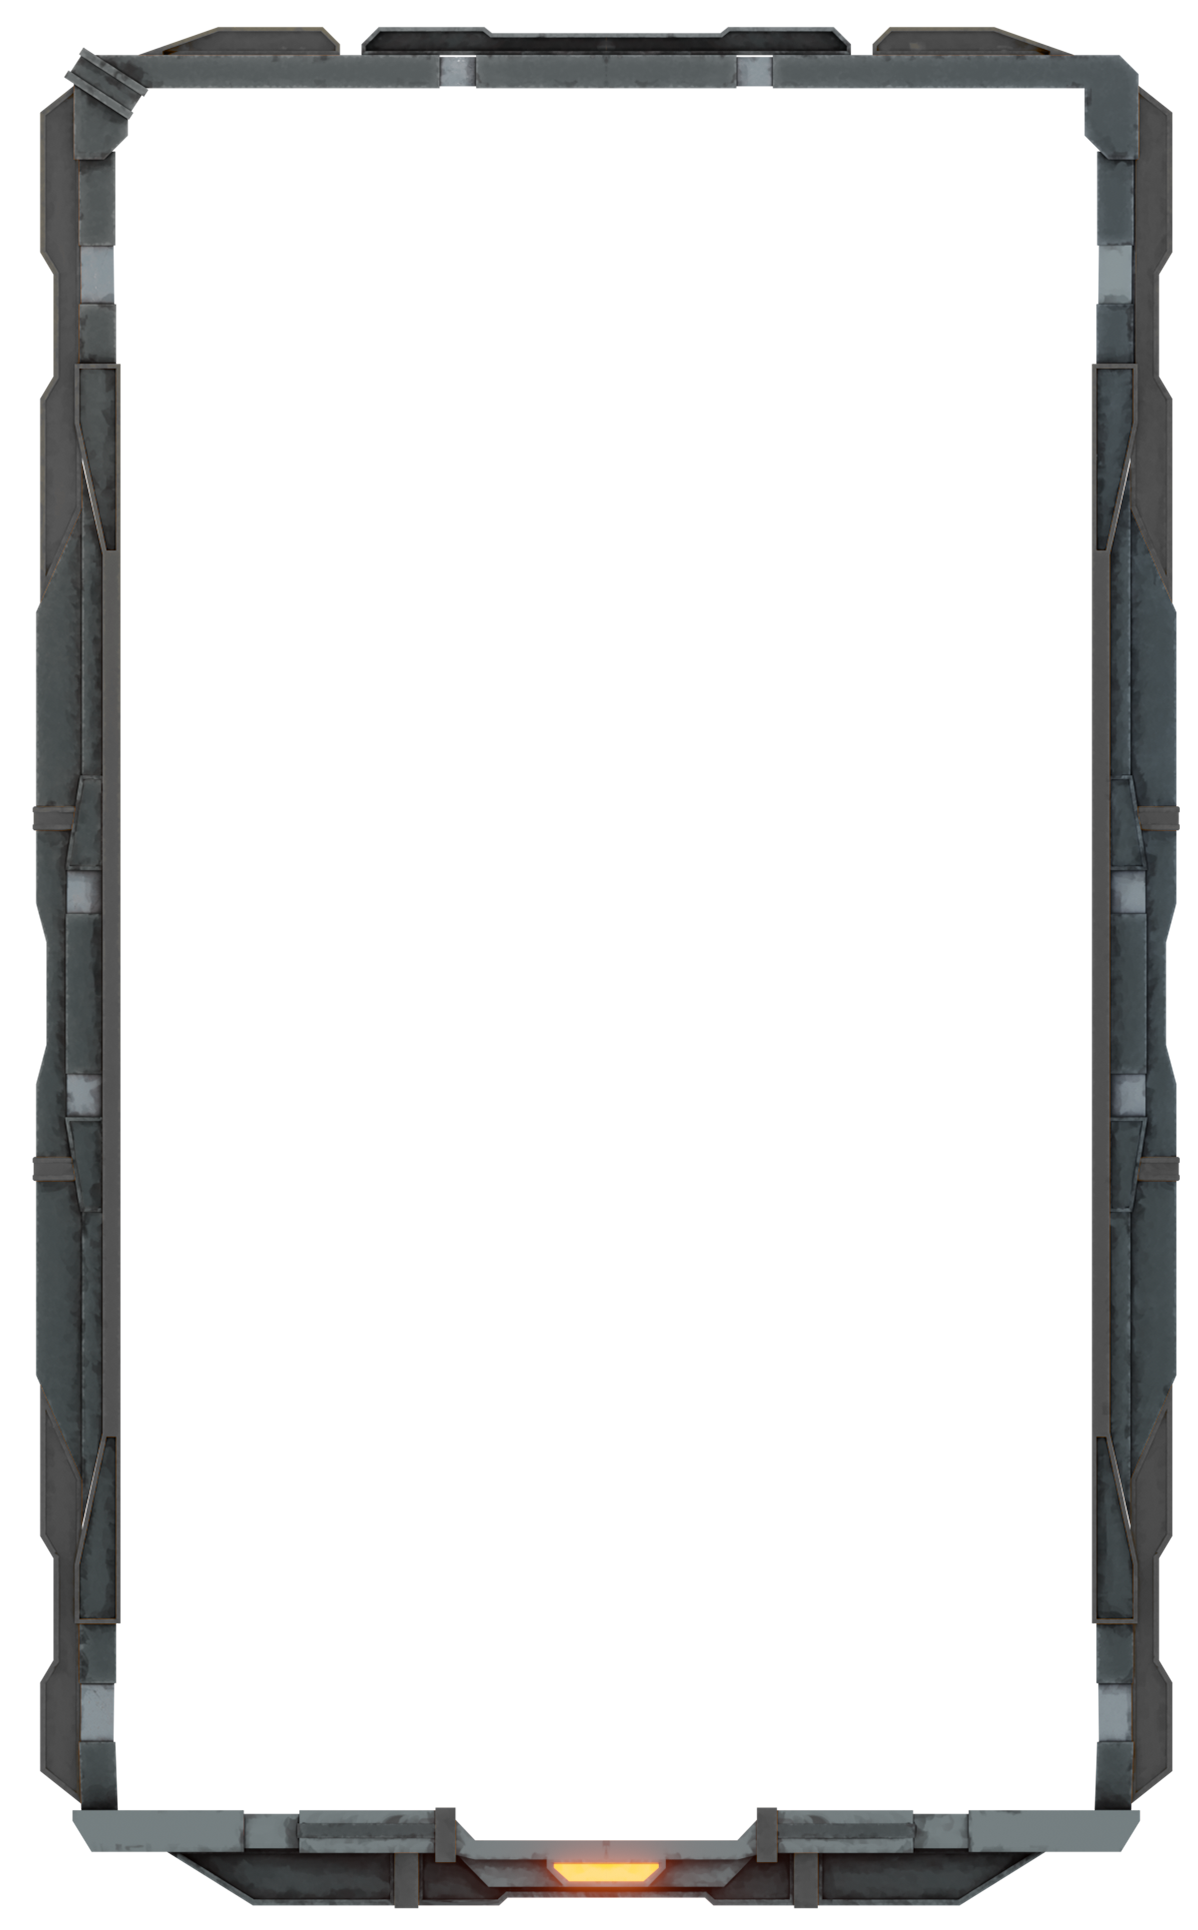
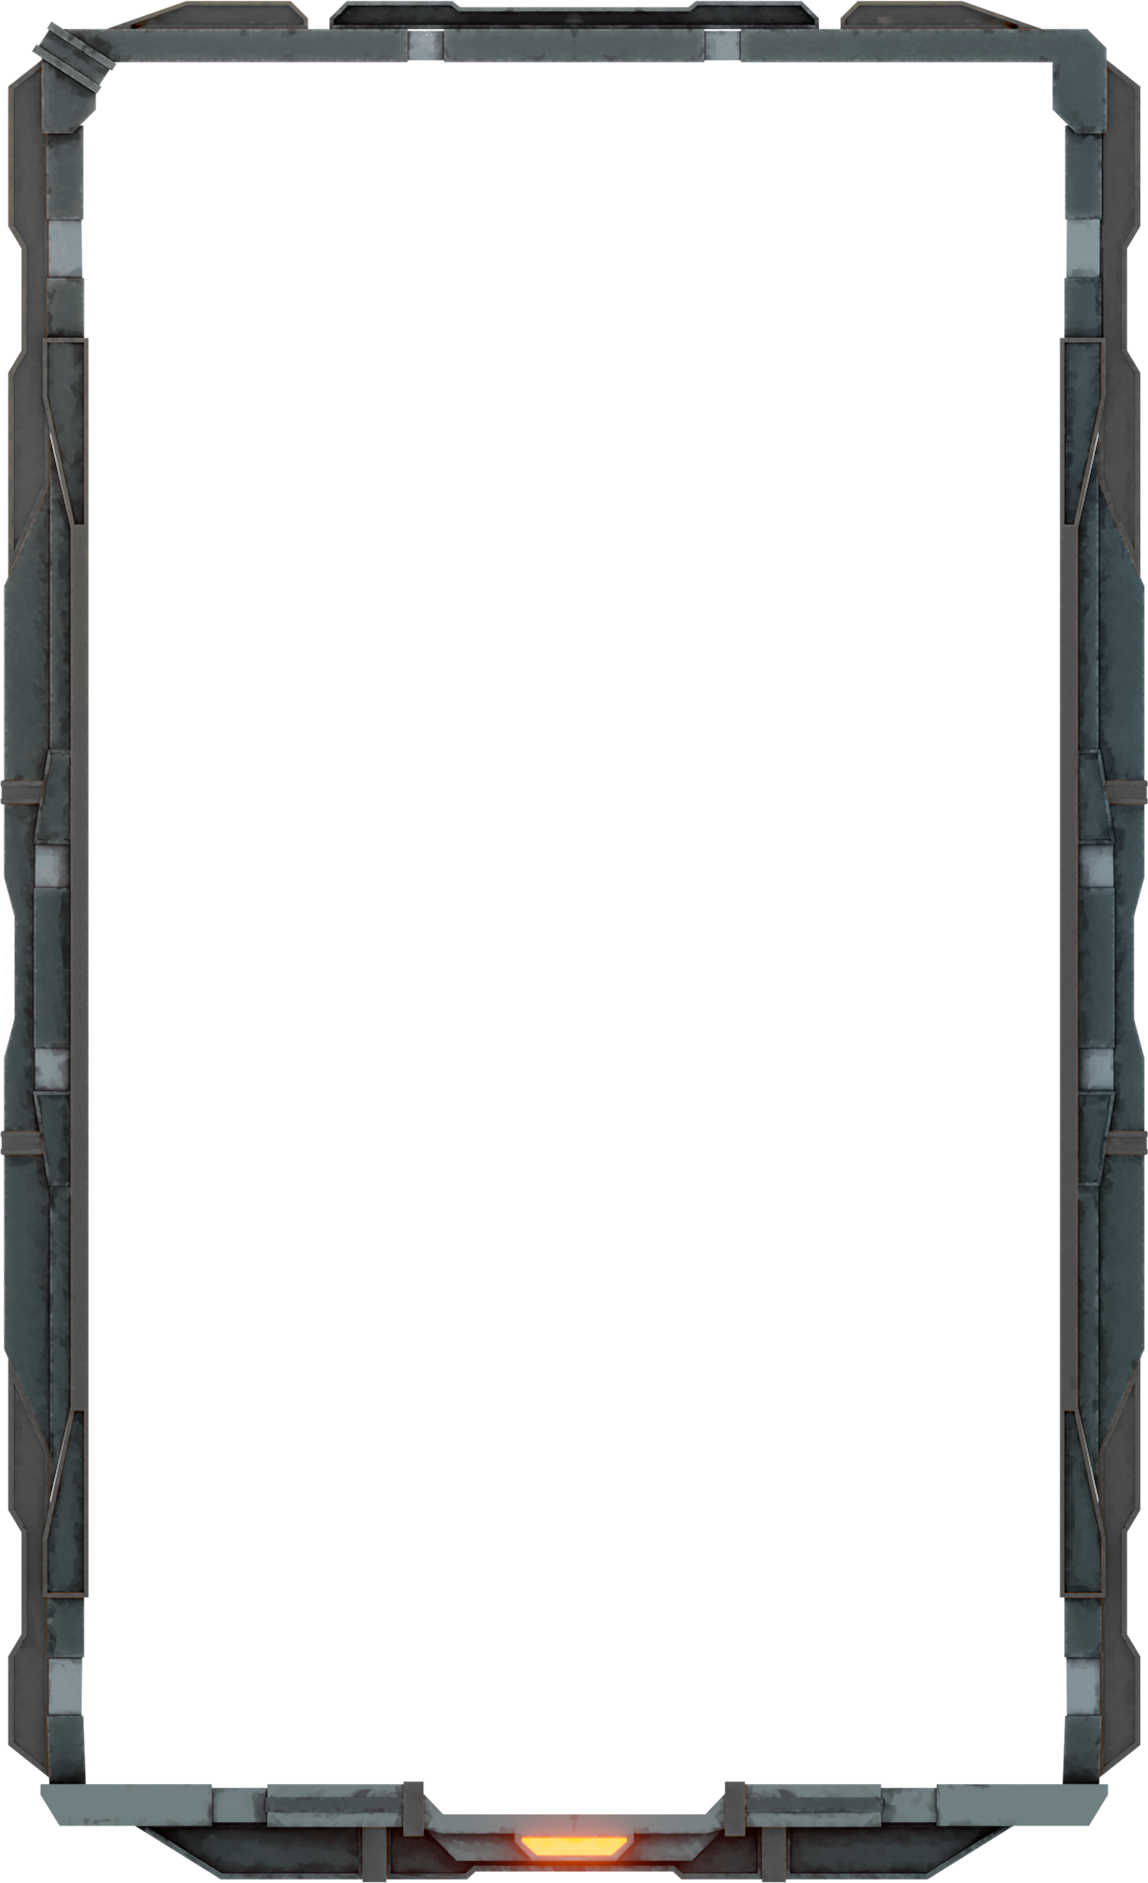
fix: :bug: solve bug related to the wrong frame
still need to be changed the global frame of the rare rarity

Changed region(s): [[0.0, 0.0, 1.0, 1.0]]

diff --git a/next.config.js b/next.config.js
@@ -7,7 +7,7 @@ module.exports = {
         headers: [
           {
             key: "Cache-Control",
-            value: "public,max-age=86400,immutable",
+            value: "public,max-age=3600,immutable",
           },
         ],
       },
@@ -16,7 +16,7 @@ module.exports = {
         headers: [
           {
             key: "Cache-Control",
-            value: "public,max-age=86400,immutable",
+            value: "public,max-age=3600,immutable",
           },
         ],
       },

diff --git a/src/features/FoxtrotCardMaker/components/Parts/Frame.tsx b/src/features/FoxtrotCardMaker/components/Parts/Frame.tsx
@@ -8,10 +8,10 @@ export const Frame = ({
   <image
     id="mNeutral"
     type="MSBitmapLayer"
-    x={0}
-    y={0}
-    width={764}
-    height={1100}
+    x={5}
+    y={29}
+    width={763}
+    height={1050}
     href={image}
   />
 );
